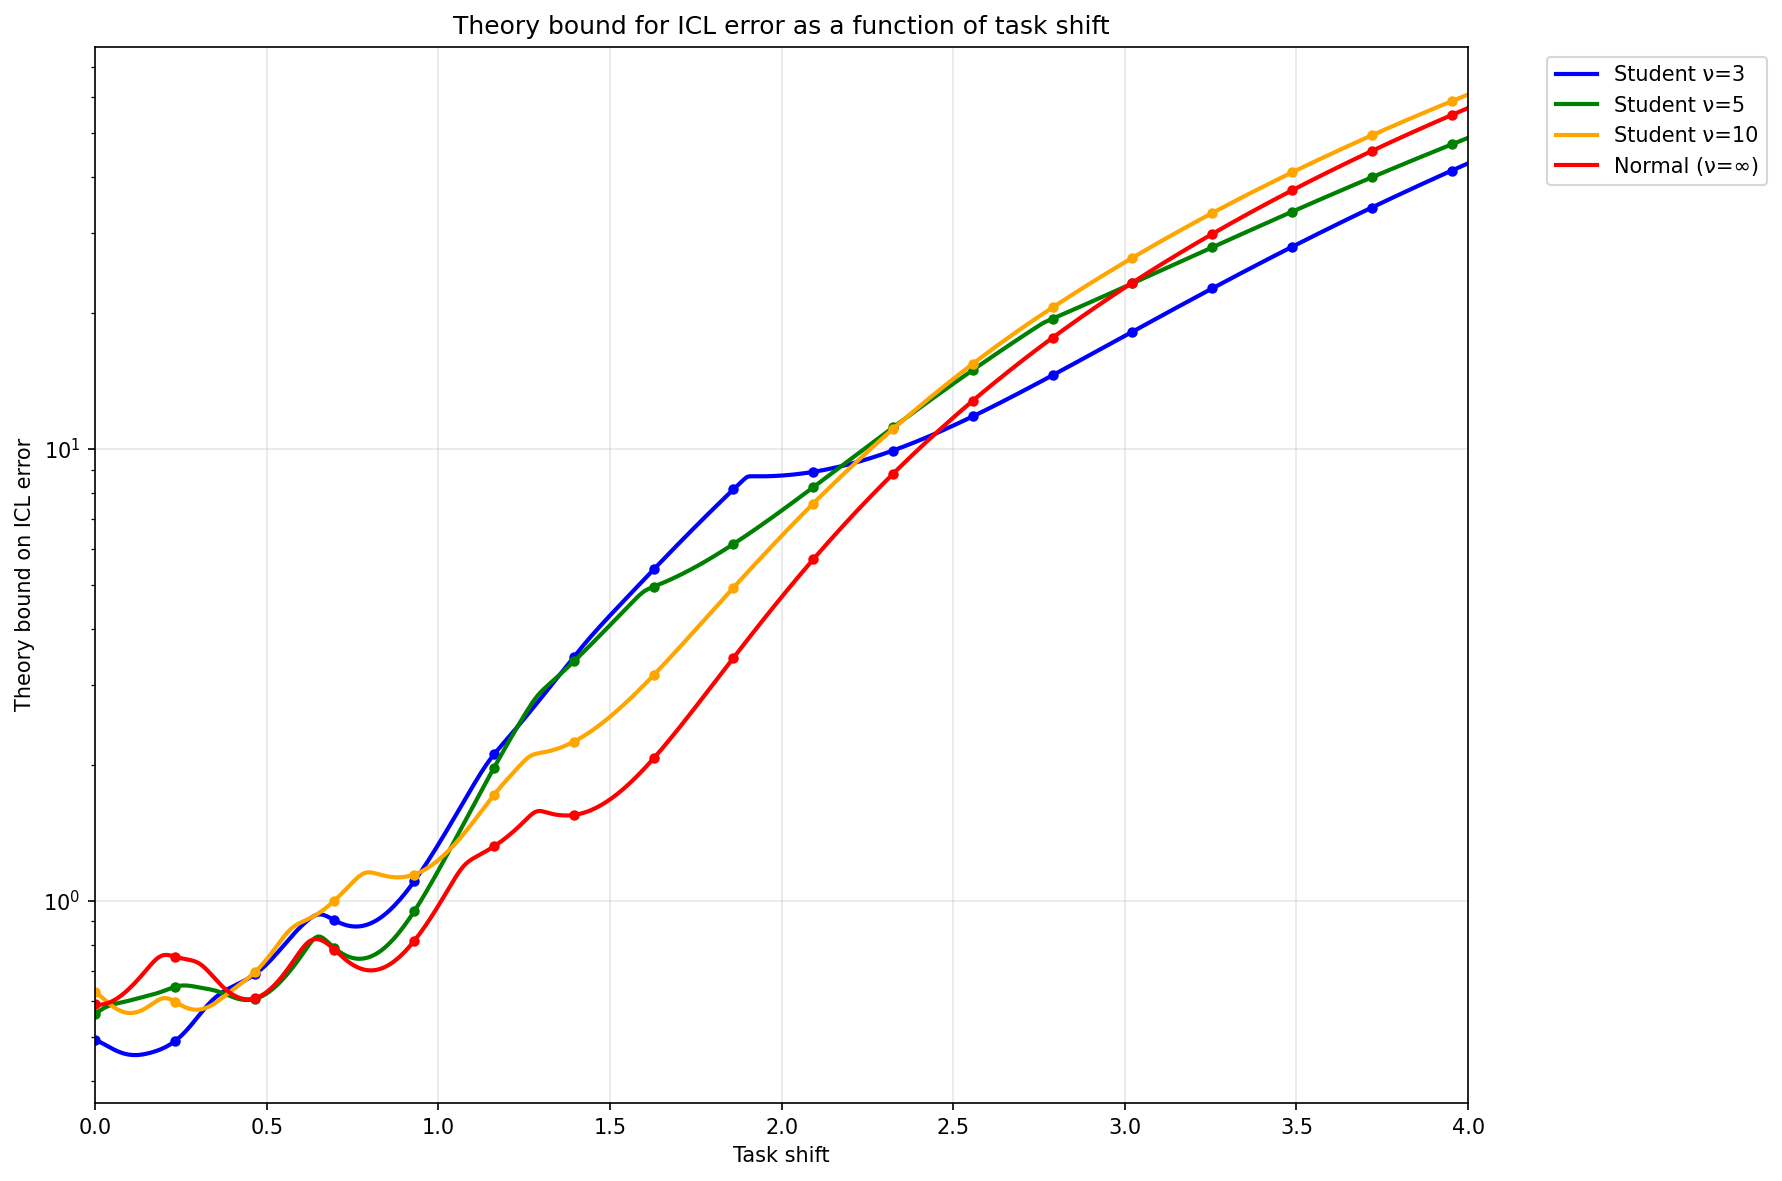
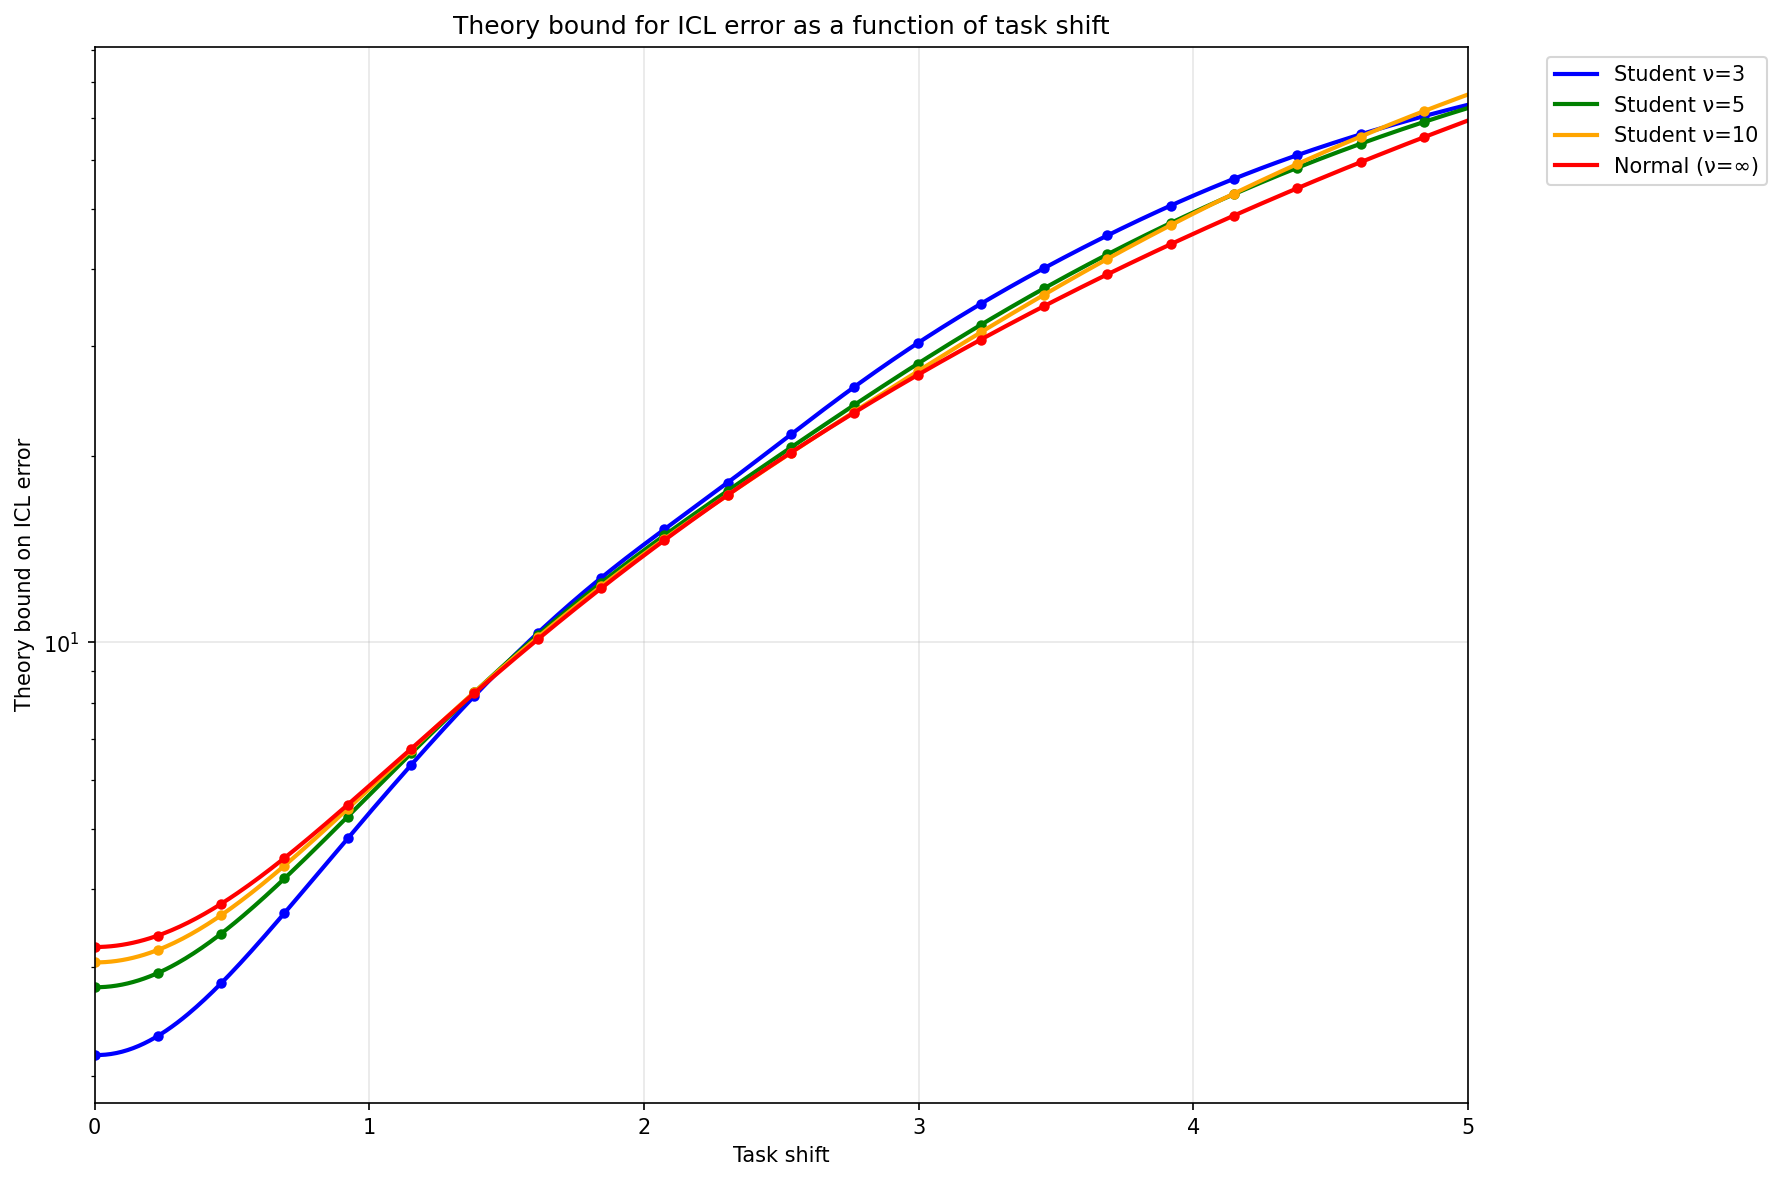
Update

diff --git a/visu2.py b/visu2.py
@@ -3,6 +3,7 @@ import jax.numpy as jnp
 import matplotlib.pyplot as plt
 from functools import partial
 import argparse
+from tqdm import tqdm
 
 # Parse command line arguments
 parser = argparse.ArgumentParser(description='Visualize ICL error bounds')
@@ -11,12 +12,12 @@ parser.add_argument('--discrete', type=int, metavar='N',
 args = parser.parse_args()
 
 # Problem setup
-d = 8
-C = 128.0 * 2 * 0.1
+d = 4
+C = 128.0 * 2 * 0.001
 nus = [3.0, 5.0, 10.0, jnp.inf]
-x_grid = jnp.linspace(0.0, 4.0, 500)
+x_grid = jnp.linspace(0.0, 5.0, 500)
 n_samples = 200_000
-key = jax.random.PRNGKey(0)
+key = jax.random.PRNGKey(1)
 
 # ---------- log densities ----------
 def log_pdf_student_var1_per_coord(y, nu, is_nu_inf):
@@ -193,37 +194,43 @@ base_Z = jax.random.normal(base_key, (n_samples, d))  # ~ N(0, I)
 
 # Generate empirical samples if needed
 if args.discrete:
-    n_repeats = 5
+    n_repeats = 3
     empirical_samples = {}
-    for nu in nus:
-        empirical_samples[nu] = []
-        for repeat in range(n_repeats):
-            key, subkey = jax.random.split(key)
-            if jnp.isinf(nu):
-                # Sample from N(0, I_d)
-                samples = jax.random.normal(subkey, (args.discrete, d))
-            else:
-                # Sample from variance-normalized Student-t
-                t_samples = jax.random.t(subkey, float(nu), (args.discrete, d))
+    print("Generating empirical samples...")
+    for nu in tqdm(nus, desc="Sampling for each ν"):
+        # Generate n_repeats sets of keys for vectorized sampling
+        keys = jax.random.split(key, n_repeats + 1)
+        key = keys[0]  # Update main key
+        subkeys = keys[1:]
+        
+        if jnp.isinf(nu):
+            # Vectorized sampling from N(0, I_d) - shape: (n_repeats, args.discrete, d)
+            samples_all = jax.vmap(lambda k: jax.random.normal(k, (args.discrete, d)))(subkeys)
+        else:
+            # Vectorized sampling from variance-normalized Student-t
+            def sample_student_t(k):
+                t_samples = jax.random.t(k, float(nu), (args.discrete, d))
                 scale = jnp.sqrt((nu - 2.0) / nu)  # variance-normalizing scale
-                samples = t_samples * scale
-            empirical_samples[nu].append(samples)
+                return t_samples * scale
+            samples_all = jax.vmap(sample_student_t)(subkeys)
+        
+        empirical_samples[nu] = samples_all  # Shape: (n_repeats, args.discrete, d)
 
 results = {}
-for nu in nus:
+print("Computing main results...")
+for nu in tqdm(nus, desc="Computing for each ν"):
     if args.discrete:
-        # Use empirical sampling with averaging over 5 repetitions
+        # Use empirical sampling with averaging over n_repeats repetitions
         is_nu_inf = bool(jnp.isinf(nu))
         nu_val = float('inf') if is_nu_inf else float(nu)
         
-        # Run 5 times and average
-        y_values = []
-        for repeat in range(n_repeats):
-            y_rep = neg_log_mgf_empirical_for_nu(empirical_samples[nu][repeat], nu_val, is_nu_inf, C, x_grid)
-            y_values.append(y_rep)
+        # Vectorized computation over all repetitions
+        def compute_single_repeat(samples):
+            return neg_log_mgf_empirical_for_nu(samples, nu_val, is_nu_inf, C, x_grid)
         
-        # Average the results
-        y = jnp.mean(jnp.stack(y_values), axis=0)
+        # Apply to all repetitions and average - shape: (n_repeats, len(x_grid))
+        y_all = jax.vmap(compute_single_repeat)(empirical_samples[nu])
+        y = jnp.mean(y_all, axis=0)
     else:
         # Use importance sampling (original approach)
         if jnp.isinf(nu):
@@ -281,16 +288,24 @@ else:
     neg_log_mgf_IS_for_nu_vmaped = jax.vmap(partial(neg_log_mgf_IS_for_nu, base_Z), in_axes=(None, None, 0, None))
 
 
-for nu in nus:
+print("Generating secondary plots...")
+for nu in tqdm(nus, desc="Plotting for each ν"):
     key, subkey = jax.random.split(key)
     plt.figure(figsize=(12, 8))
     
     if args.discrete:
-        # Use empirical sampling with pre-generated samples
+        # Use empirical sampling with pre-generated samples, averaged over n_repeats repetitions
         is_nu_inf = bool(jnp.isinf(nu))
         nu_val = float('inf') if is_nu_inf else float(nu)
-        neg_log_mgf_empirical_vmaped = create_empirical_vmaped(empirical_samples[nu])
-        all_y_vals = neg_log_mgf_empirical_vmaped(nu_val, is_nu_inf, C_grid, x_small_grid)
+        
+        # Vectorized computation over all repetitions for each C value
+        def compute_single_repeat_vmaped(samples):
+            neg_log_mgf_empirical_vmaped = create_empirical_vmaped(samples)
+            return neg_log_mgf_empirical_vmaped(nu_val, is_nu_inf, C_grid, x_small_grid)
+        
+        # Apply to all repetitions and average - shape: (n_repeats, len(C_grid), len(x_small_grid))
+        all_y_vals_all = jax.vmap(compute_single_repeat_vmaped)(empirical_samples[nu])
+        all_y_vals = jnp.mean(all_y_vals_all, axis=0)
     else:
         # Use importance sampling (original approach)
         if jnp.isinf(nu):

diff --git a/icl-task-diversity/analyze.py b/icl-task-diversity/analyze.py
@@ -1336,7 +1336,6 @@ def plot_min_mse_analysis(run_paths: list, output_dir: Path = None, run_labels: 
         ax1.set_title(f"Best MSE vs {baseline_type} Baseline vs Task Shift")
         ax1.grid(True, alpha=0.3)
         ax1.set_yscale('log')
-        ax1.legend()
         
         # Plot mean MSE over context length data (right subplot)
         for i, (run_label, run_data) in enumerate(mean_mse_data.items()):
@@ -1371,7 +1370,6 @@ def plot_min_mse_analysis(run_paths: list, output_dir: Path = None, run_labels: 
         ax2.set_title(f"Mean MSE vs {baseline_type} Baseline vs Task Shift")
         ax2.grid(True, alpha=0.3)
         ax2.set_yscale('log')
-        ax2.legend()
         
         # Plot end MSE data (third subplot)
         for i, (run_label, run_data) in enumerate(end_mse_data.items()):
@@ -1406,9 +1404,18 @@ def plot_min_mse_analysis(run_paths: list, output_dir: Path = None, run_labels: 
         ax3.set_title(f"End MSE vs {baseline_type} Baseline vs Task Shift")
         ax3.grid(True, alpha=0.3)
         ax3.set_yscale('log')
-        ax3.legend()
+        
+        # Add legend below plots
+        handles1, labels1 = ax1.get_legend_handles_labels()
+        handles2, labels2 = ax2.get_legend_handles_labels()
+        handles3, labels3 = ax3.get_legend_handles_labels()
+        
+        # Use handles and labels from first subplot (they should be the same)
+        fig.legend(handles1, labels1, loc='lower center', ncol=min(len(labels1), 4), 
+                  bbox_to_anchor=(0.5, -0.02))
         
         plt.tight_layout()
+        plt.subplots_adjust(bottom=0.15)
         
         # Save plot
         if output_dir is None:
